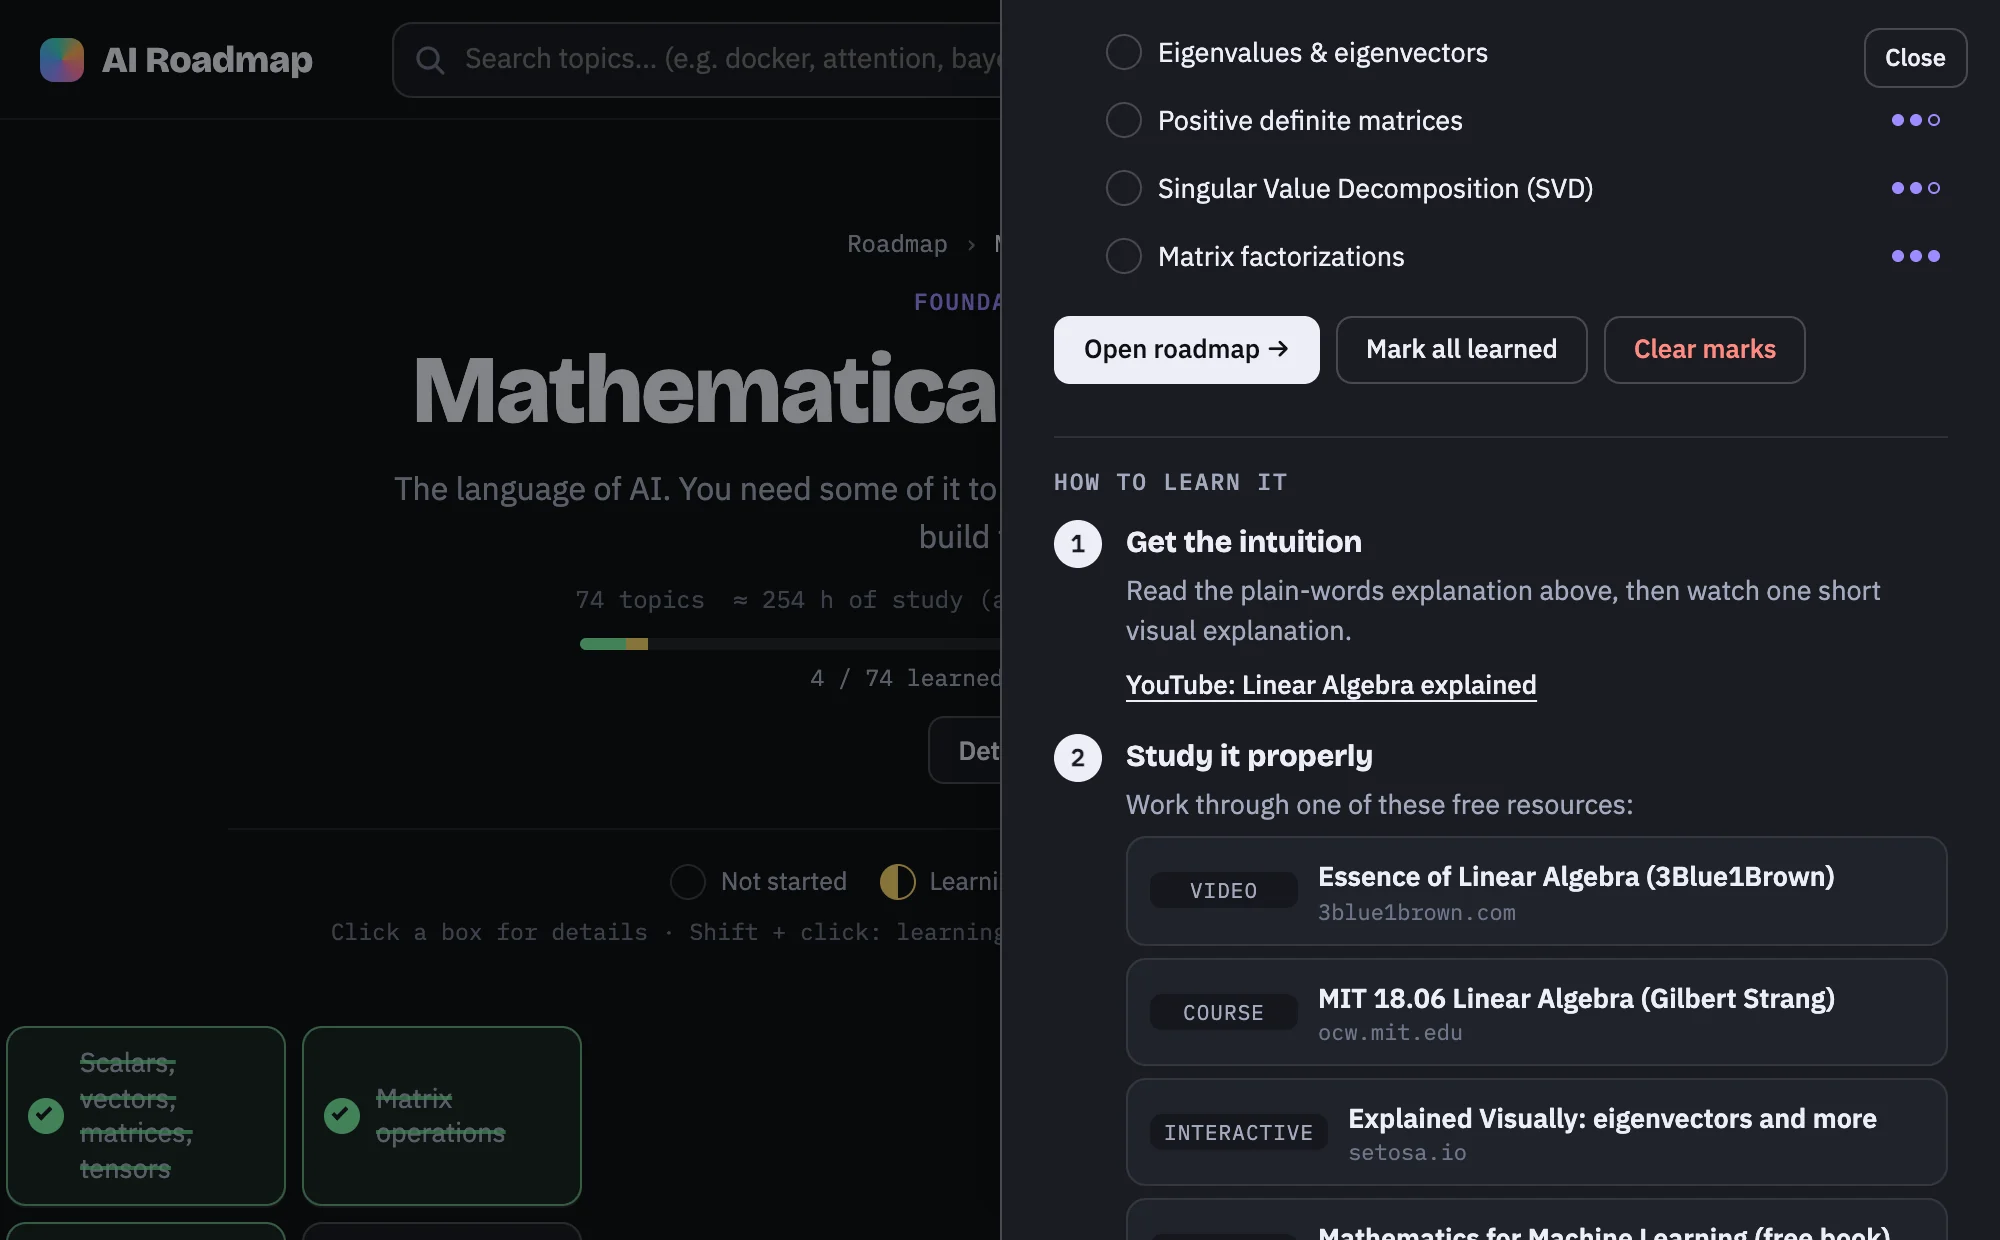
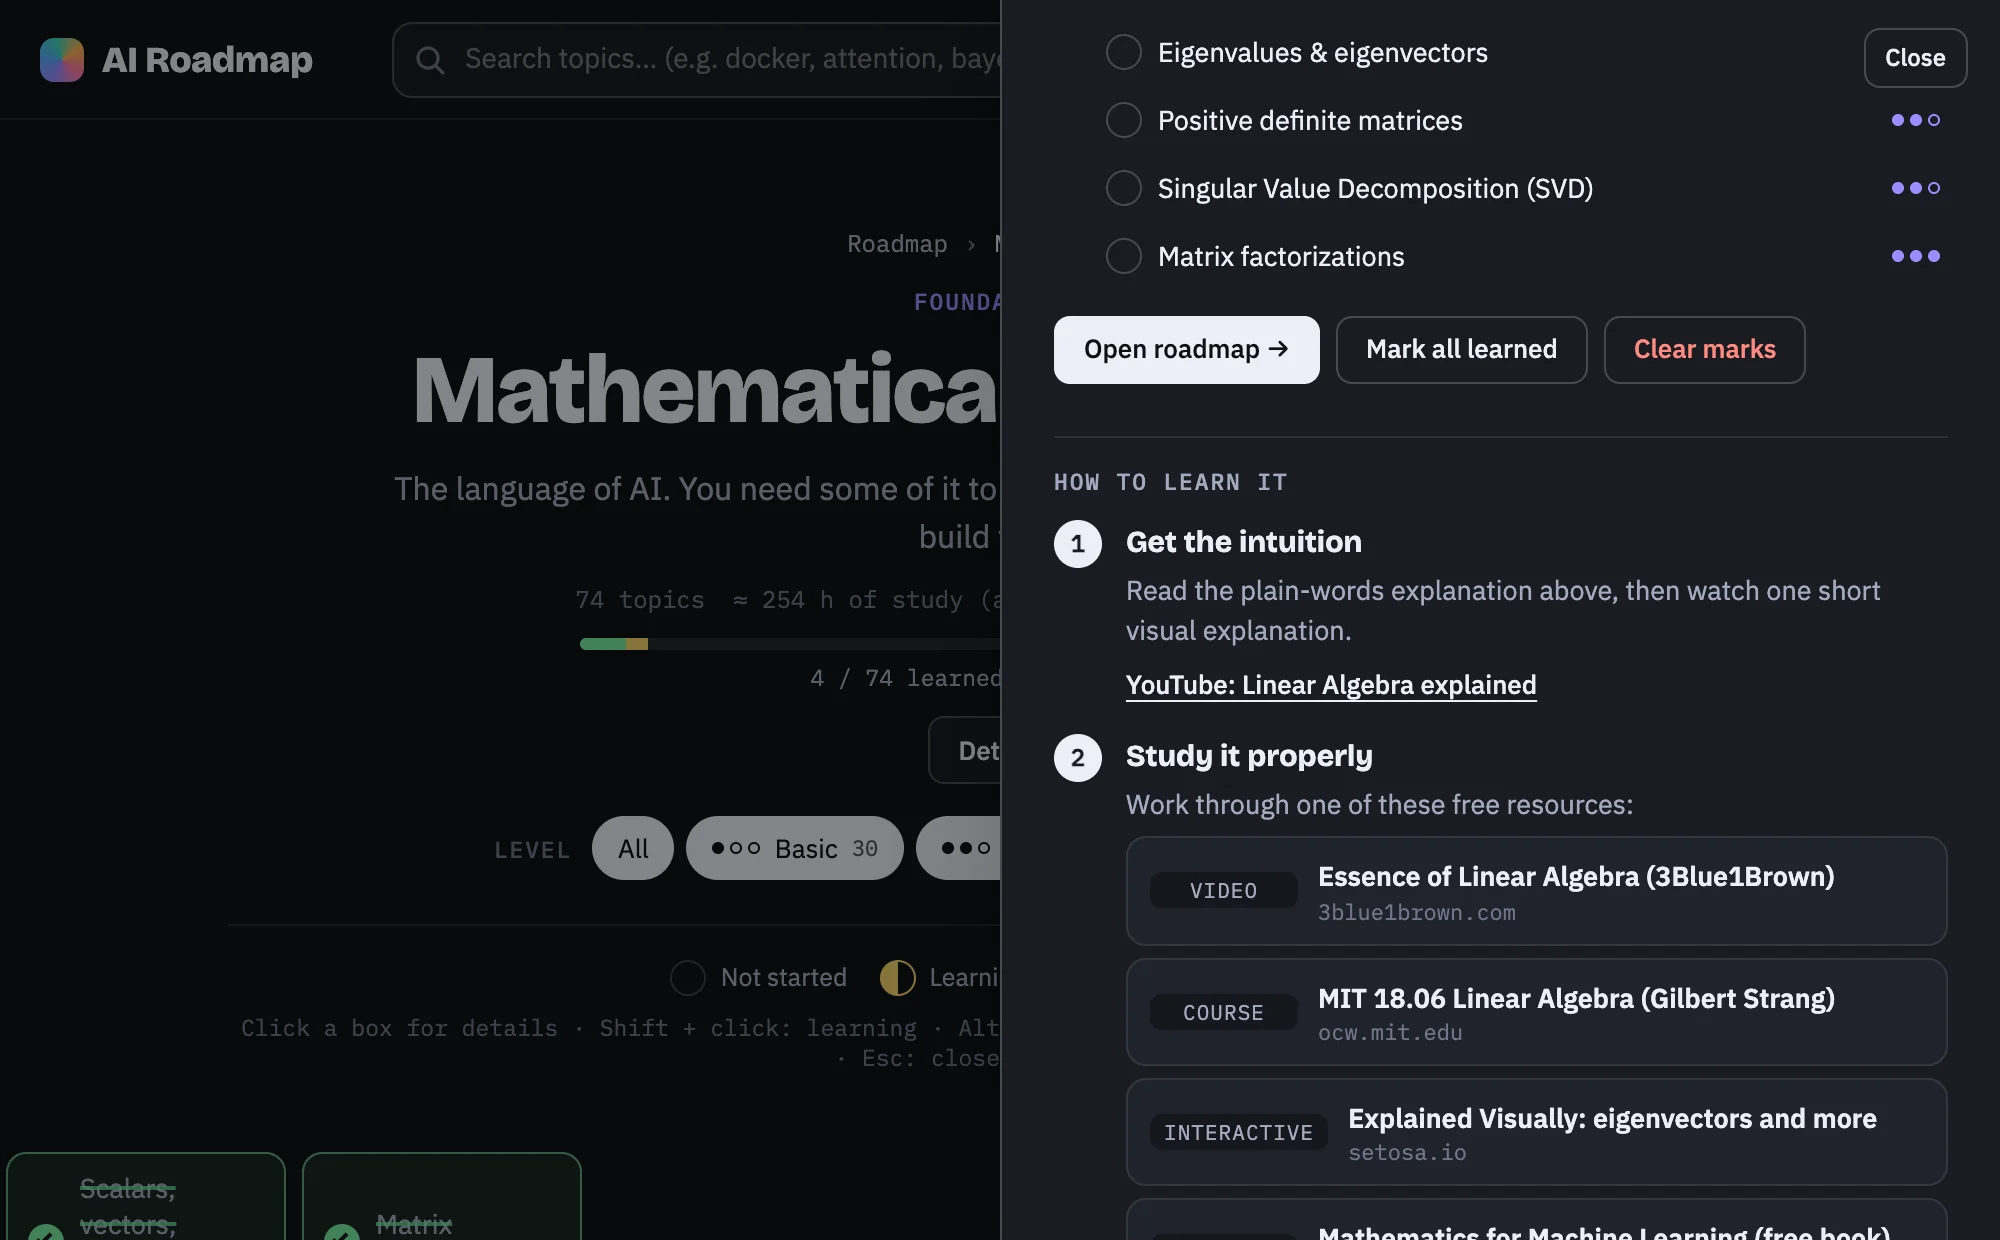
Update screenshots for the level filter and skip shortcut

diff --git a/README.md b/README.md
@@ -16,6 +16,8 @@ underneath to shipping models in production. Inspired by the roadmap.sh style.
   the same shortcut again sets it back). Progress bars update everywhere.
 - **Filter by level.** Show *Basic*, *Intermediate* and/or *Advanced* topics, in any
   combination. It only changes the view: other topics fade out, nothing else changes.
+
+![The level filter: Basic and Intermediate on, Advanced topics faded out](docs/screenshot-filter.webp)
 - **Notes and search.** Per-topic notes that save automatically; search with `/`.
 - **Saved to a local database.** Progress is saved automatically to a SQLite file in the
   project folder (see below). Export/import as JSON from **Data**; files from
